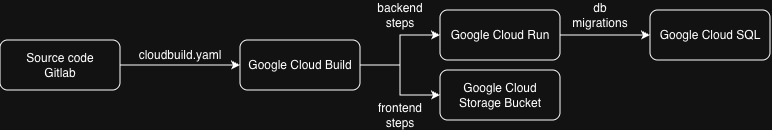
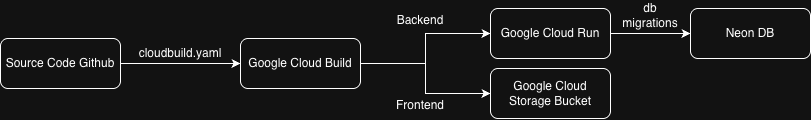
adjust mobil view

diff --git a/frontend/src/features/MainLayout.tsx b/frontend/src/features/MainLayout.tsx
@@ -55,8 +55,8 @@ export default function MainLayout({ data, categories, user, isSample, currentAm
             </div>
             <Button size="sm" onClick={handleLogout}><LogOut /> Logout</Button>
           </div>
-          <div className='mx-5 flex flex-row gap-5'>
-            <div className='flex flex-col gap-5 w-1/4'>
+          <div className='mx-5 flex flex-col md:flex-row gap-5'>
+            <div className='flex flex-col gap-5 w-full md:w-1/4'>
               <div className={cardStyle}>
                 <CurrentBalance currentBalance={currentBalance} lastBalance={lastBalance} />
               </div>
@@ -64,12 +64,12 @@ export default function MainLayout({ data, categories, user, isSample, currentAm
                 <CurrentMonthExpenses currentAmount={currentAmount} lastAmount={lastAmount} />
               </div>
             </div>
-            <div className={'w-3/4 '+`${cardStyle}`}>
+            <div className={'w-full md:w-3/4 '+`${cardStyle}`}>
               <ExpensesByMonths data={monthlyChartData} />
             </div>
           </div>
-          <div className='flex flex-row px-5 gap-5'>
-            <div className='flex flex-col w-2/3 mt-5'>
+          <div className='flex flex-col md:flex-row px-5 gap-5'>
+            <div className='flex flex-col w-full md:w-2/3 mt-5'>
               <div className={`h-180 overflow-scroll ${cardStyle}`}>
                 <MainTable isSample={isSample} data={data} categories={categories} fetchTransactions={fetchTransactions} />
               </div>
@@ -77,7 +77,7 @@ export default function MainLayout({ data, categories, user, isSample, currentAm
                 <TransactionInput categories={categories} isSample={isSample} fetchTransactions={fetchTransactions} />
               </div>
             </div>
-            <div className='flex flex-col w-1/3 mt-5'>
+            <div className='flex flex-col w-full md:w-1/3 md:mt-5'>
               <div className={`h-180 ${cardStyle}`}>
                 <CurrentMonthChart expenses={expensesByMonthCategory}/>
               </div>

diff --git a/frontend/src/pages/Story.tsx b/frontend/src/pages/Story.tsx
@@ -93,6 +93,8 @@ Visit the [Github repo]("https://github.com/pukuri/expenses/blob/main/cloudbuild
 
 One hiccup hit post-deploy: frontend pages returned 404s despite successful builds, thanks to Cloudflare's strict route mapping clashing with bucket paths. Fixed it cleanly with Cloudflare Workers. Route expenses.fachriakbarr.com/api/* to Cloud Run for backend APIs and the rest to the GCS bucket for frontend. Now everything flows: static UI loads instantly, API calls hit the right service, all proxied securely through Cloudflare.
 
+Update January 6th: Turns out Google Cloud SQL is pretty expensive despite already using its lower spec machines. So I switched to [Neon]("https://neon.com/") and using its free tier. My app is not that SQL heavy anyway.
+
 Below is the Cloudflare worker code to handle routing that I developed with the help of LLMs.
   `;
 
@@ -316,7 +318,7 @@ async function handleRequest(request) {
 \`\`\`
   `;
 
-  const textClass = "text-[16px] prose prose-p:text-[16px] prose-p:mb-4 max-w-none prose-a:text-blue-600 prose-a:underline text-white"
+  const textClass = "text-[16px] prose prose-p:text-[16px] prose-p:mb-4 max-w-120 md:max-w-none prose-a:text-blue-600 prose-a:underline text-white"
   const markdownClass = "text-[16px] mb-4 mx-auto prose prose-pre:bg-gray-900 prose-pre:border max-w-none prose-pre:text-sm"
 
   return (
@@ -324,7 +326,7 @@ async function handleRequest(request) {
       <h1 className="text-center text-4xl">Expenses Tracker App From Zero</h1>
       <h2 className="text-center text-xl text-gray-500 pt-2">How I develop and deploy an app from scratch</h2>
       
-      <div className="py-10 flex flex-col gap-4">
+      <div className="py-10 px-4 flex flex-col gap-4">
         <div className={textClass}>
           <ReactMarkdown components={{ a: LinkRenderer }}>
             {introContent}

diff --git a/frontend/src/features/TransactionInput.tsx b/frontend/src/features/TransactionInput.tsx
@@ -49,8 +49,8 @@ export default function TransactionInput({ categories, isSample, fetchTransactio
   
   return (
     <div className="w-full p-4 bottom-0 right-0 rounded-md bg-neutral-2 text-white">
-      <form onSubmit={handleSubmit} className="flex flex-row gap-2">
-        <div className="w-3/12 flex flex-col">
+      <form onSubmit={handleSubmit} className="flex flex-col md:flex-row gap-2">
+        <div className="md:w-3/12 flex flex-col">
           <Popover>
             <PopoverTrigger asChild>
               <Button
@@ -83,21 +83,21 @@ export default function TransactionInput({ categories, isSample, fetchTransactio
             </PopoverContent>
           </Popover>
         </div>
-        <div className="w-3/12 flex flex-col">
+        <div className="md:w-3/12 flex flex-col">
           <Input 
             type="number" 
             onChange={(e) => setFormData({ ...formData, amount: Number(e.target.value) || 0 })} 
             placeholder="Amount"
             required></Input>
         </div>
-        <div className="w-3/12 flex flex-col">
+        <div className="md:w-3/12 flex flex-col">
           <Input 
             value={formData.description}
             onChange={(e) => setFormData({ ...formData, description: e.target.value })} 
             placeholder="Description"
             required></Input>
         </div>
-        <div className="w-3/12 flex flex-col">
+        <div className="md:w-3/12 flex flex-col">
           <Select
             value={JSON.stringify(formData.category_id)}
             onValueChange = {(value) => setFormData({ ...formData, category_id: Number(value) })}
